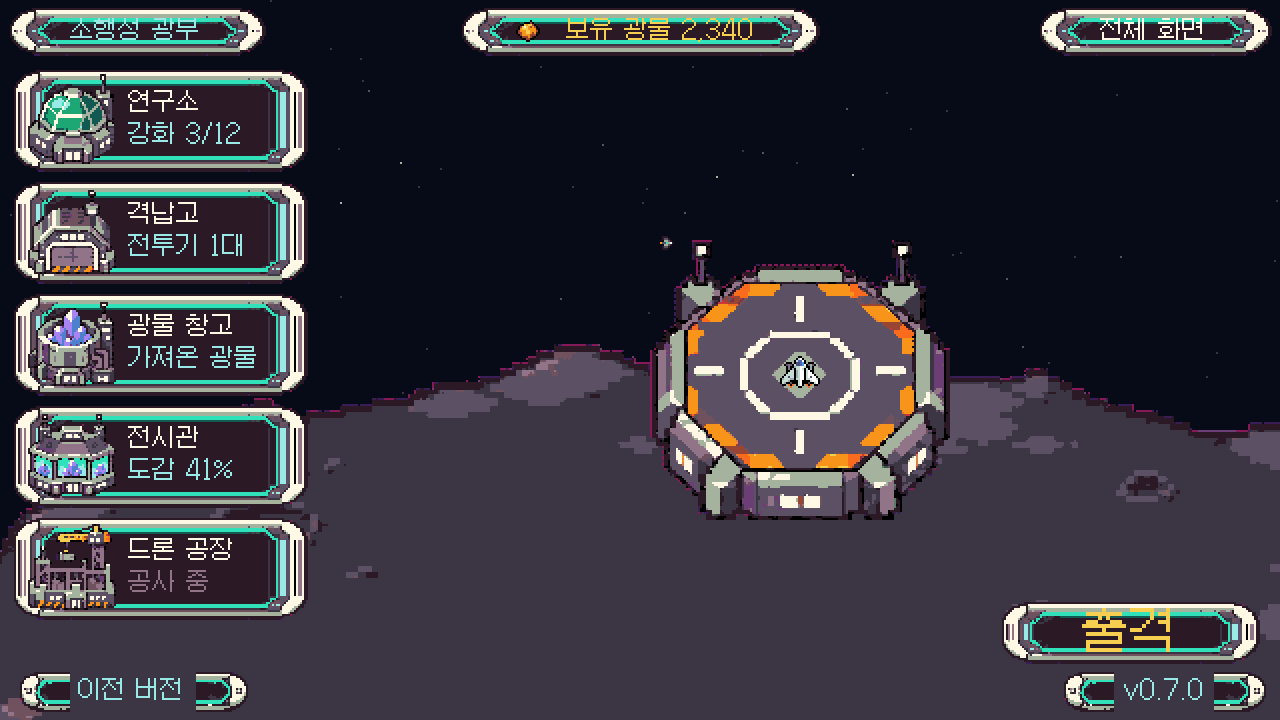
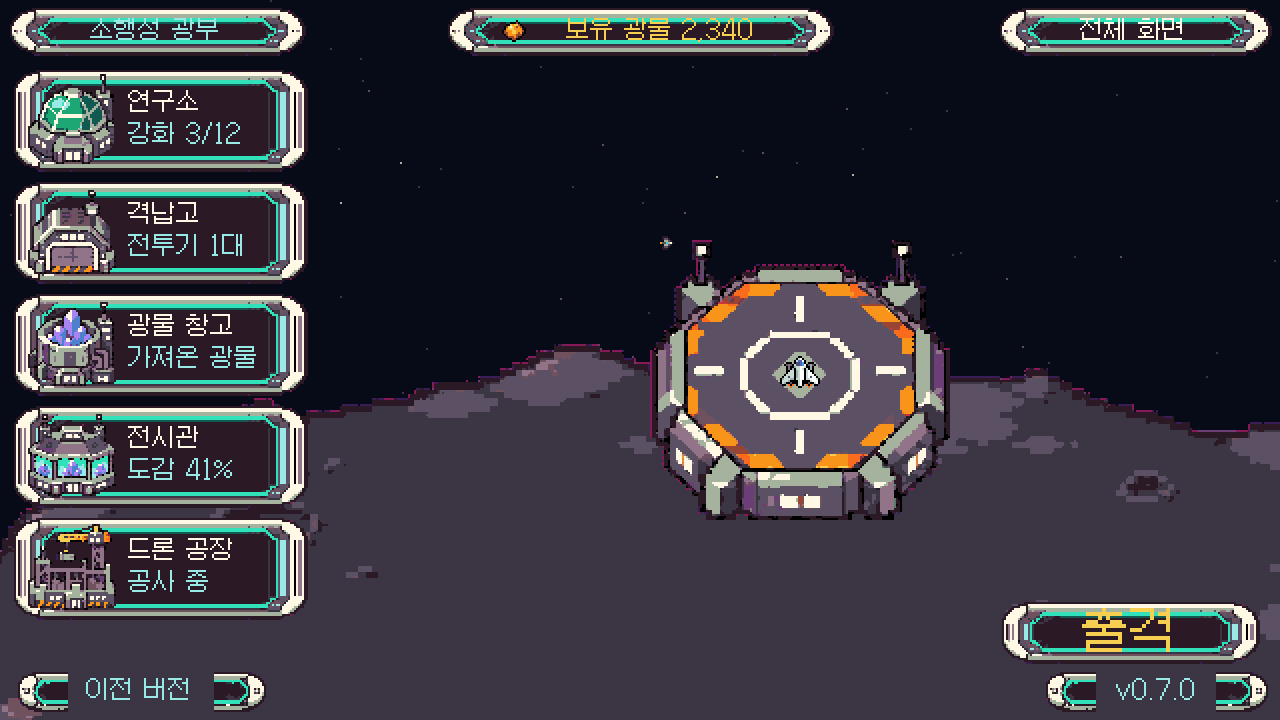
v0.7.0 기지 시안 검토 반영: 이름표 위치와 모듈 이름, 폰 글자, 글자 여백

diff --git a/review/v070_base/make_mockups.py b/review/v070_base/make_mockups.py
@@ -109,8 +109,12 @@ def plate(bg, x, y, w, h, s=None, size=12, fill=INK):
         text(bg, (x + w // 2, y + h // 2), s, size, fill, "mm")
 
 
+def tag_w(s, size=12):
+    return max(tw(s, size) + 72, 52)  # 양끝 장식이 글자를 가리지 않게
+
+
 def tag(bg, cx, y, s, size=12, fill=INK):
-    w = max(tw(s, size) + 62, 52)  # 양끝 장식이 글자를 가리지 않게
+    w = tag_w(s, size)
     h = 21 if size == 12 else 34
     paste(bg, nine("pill", w, h), (cx - w // 2, y))
     text(bg, (cx, y + h // 2), s, size, fill, "mm")
@@ -150,21 +154,21 @@ def top_bar(bg, w, big):
     """상단 바: 제목, 보유 광물, 전체 화면을 금속 판 위에"""
     size = 24 if big else 12
     h = 36 if big else 25
-    plate(bg, 4, 3, tw("소행성 광부", size) + 64, h, "소행성 광부", size, TEAL)
+    plate(bg, 4, 3, tw("소행성 광부", size) + 84, h, "소행성 광부", size, TEAL)
     label = "보유 광물 2,340"
-    bw = tw(label, size) + 86
+    bw = tw(label, size) + 100
     plate(bg, w // 2 - bw // 2, 3, bw, h, None)
     ore = Image.open(os.path.join(RUN, "mineral_3.png")).convert("RGBA")
     paste(bg, ore, (w // 2 - bw // 2 + 28, 3 + (h - ore.height) // 2))
     text(bg, (w // 2 + 10, 3 + h // 2), label, size, GOLD, "mm")
-    fw = tw("전체 화면", size) + 64
+    fw = tw("전체 화면", size) + 84
     plate(bg, w - fw - 4, 3, fw, h, "전체 화면", size)
 
 
 def bottom_bar(bg, w, h, big):
     size = 12
-    tag(bg, 66, h - 25, "이전 버전", size, TEAL)
-    tag(bg, w - 58, h - 25, "v0.7.0", size, TEAL)
+    tag(bg, 70, h - 25, "이전 버전", size, TEAL)
+    tag(bg, w - 62, h - 25, "v0.7.0", size, TEAL)
 
 
 NAMES = ["연구소", "격납고", "광물 창고", "전시관", "드론 공장"]
@@ -222,15 +226,15 @@ def mock_b(a, w, h, big, t=0, shift=0.0):
     gw = int(w * 1.3)
     ground = fit(a["ground_raw"], a["ground_box"], gw)
     paste(bg, ground, ((w - gw) // 2 + 40, h - ground.height // 2 + 10))
-    col_w = 148 if not big else 196
-    y = 34 if not big else 46
-    row = 56 if not big else 62
+    col_w = 148 if not big else 250
+    y = 34 if not big else 42
+    row = 56 if not big else 63
     for i, s in enumerate(NAMES):
         paste(bg, nine("button", col_w, row - 4), (6, y))
         icon = build(a, i, 44)
         paste(bg, icon, (14, y + (row - 4 - icon.height) // 2))
-        text(bg, (64, y + 10), s, 12 if not big else 24, INK)
-        text(bg, (64, y + (26 if not big else 34)), ["강화 3/12", "전투기 1대", "가져온 광물", "도감 41%", "공사 중"][i], 12, TEAL if i != 4 else DIM)
+        text(bg, (64, y + (10 if not big else 3)), s, 12 if not big else 24, INK)
+        text(bg, (64, y + (26 if not big else 29)), ["강화 3/12", "전투기 1대", "가져온 광물", "도감 41%", "공사 중"][i], 12 if not big else 24, TEAL if i != 4 else TEAL)
         y += row
     # 가운데 무대
     stage_x = col_w + 12 + (w - col_w - 12) // 2
@@ -261,13 +265,13 @@ def mock_c(a, w, h, big, t=0, shift=0.0):
     paste(bg, flame(t), (cx - 24, cy - 24))
     paste(bg, ship_sprite(), (cx - 24, cy - 24))
     r = st.width // 2 + 2
-    for i, s in enumerate(NAMES):
-        ang = -math.pi / 2 + i * math.tau / 5
-        tx = int(cx + math.cos(ang) * (r + (70 if abs(math.cos(ang)) > 0.3 else 0)))
-        ty = int(cy + math.sin(ang) * r * 0.86) - 10
-        if i == 0:
-            tx += 92  # 위쪽 건물과 겹치지 않게 옆으로
-        tag(bg, tx, max(min(ty, h - (70 if big else 50)), 42 if big else 30), s, 24 if big else 12)
+    size = 24 if big else 12
+    gap = r + 8
+    # 그림의 모듈 자리: 위 연구소, 오른쪽 광물 창고, 오른쪽 아래 격납고, 왼쪽 아래 전시관, 왼쪽 드론 공장
+    for s, side, ky in [("연구소", 0.55, -0.82), ("광물 창고", 1, -0.1), ("격납고", 1, 0.42 if big else 0.62), ("전시관", -1, 0.42 if big else 0.62), ("드론 공장", -1, -0.1)]:
+        half = tag_w(s, size) // 2
+        tx = cx + side * (gap + half) if side != 0.55 else cx + r // 2 + half + 8
+        tag(bg, int(tx), int(cy + ky * r), s, size)
     k = t / 40.0 * math.tau
     paste(bg, drone(t // 2), (int(cx + math.cos(k) * r * 0.55) - 8, int(cy + math.sin(k) * r * 0.55) - 8))
     fw, fh = (170, 40) if big else (110, 28)

diff --git a/review/v070_base/design.md b/review/v070_base/design.md
@@ -28,16 +28,18 @@
 
 **추천: A.** 격자·색·UI를 맞추는 것만으로 차이가 가장 많이 줄어요. 지금 v0.7.0의 목표가 품질 맞추기이고 다음 무기 업데이트가 격납고 화면을 건드리니, 구성 개편은 그때 B를 다시 봐도 돼요. 눈으로 고르면 C가 더 멋있을 수 있어요.
 
+C의 모듈 그림은 한 장으로 나온 것이라 모양이 게임 건물과 똑같지는 않아요: 광물 창고는 보라 결정이 든 오른쪽 캡슐, 격납고는 큰 문이 있는 오른쪽 아래 모듈이에요.
+
 ## 3. 대기 중 움직임 (`idle_motion_A.gif`)
 
-GIF에 넣은 것: 건물 불빛 깜빡임, 우주선 대기 엔진 불꽃, 별 시차, 작은 운반 드론 왕복. 어느 시안에든 넣을 수 있어요. 시안 합성이라 실제 게임 속도와는 달라요.
+GIF(640x360, 40프레임)에 넣은 것: 건물 불빛 깜빡임, 우주선 대기 엔진 불꽃, 별 시차, 작은 운반 드론 왕복. 어느 시안에든 넣을 수 있어요. 시안 합성이라 실제 게임 속도와는 달라요.
 
 ## 4. 시안에서 벗어난 점과 구현 때 할 일
 
 - 폰은 기지도 출격처럼 정수 배율로 바꿔야 해요 (`App.fit_screen`의 기지 모드). 시안의 폰 그림은 그 상태를 가정했어요. **바로 고쳐도 되는 부분이지만 시안 범위라 건드리지 않았어요.**
 - 시안의 바닥은 어둡게 눌렀고 길이 없어요. 구현 때 길은 Codex 그림으로 넣어요.
-- 폰 이름표는 24px, 위쪽 바 글자 24px예요. 실제 크기는 PNG를 폰 가로 화면에 꽉 채우면 비슷해요.
-- 금속 알약 양끝 장식이 넓어서 글자 양옆에 약 31px씩 들어가요. 짧은 이름표용으로 작은 판 그림을 새로 만들면 더 깔끔해요.
+- 폰 이름표·부제·위쪽 바 글자는 24px예요. 실제 크기는 PNG를 폰 가로 화면에 꽉 채우면 비슷해요.
+- 금속 알약 양끝 장식이 넓어서 글자 양옆에 약 36px씩 비워 뒀어요. 짧은 이름표용으로 작은 판 그림을 새로 만들면 더 깔끔해요.
 - 팩 색 검사는 정리 도구가 void32로 바꿔서 보장되지만, 팩 그림 옆에 놓은 비교는 착륙장 위 우주선 정도예요.
 
 ## 다시 만들기

diff --git a/PROGRESS.md b/PROGRESS.md
@@ -637,3 +637,4 @@
 - 판단: 소수 DPR 흐림의 원인은 Godot 웹 캔버스 크기 차이로 인한 브라우저 재표본(전체 픽셀). `image-rendering:pixelated` 한 줄이 임시 복사본에서 효과 있었지만 요청이 원인 확인이라 넣지 않음. 지금 게임은 30초 안에 게이트가 안 열림(첫 게이트 40초)을 함께 적음
 - D 기지 화면 시안 (게임에 적용 안 함): 원인 분석과 시안 A 배치 유지, B 구성 새로, C 궤도 정거장, 대기 움직임 GIF. Codex 3장. 정리 `review/v070_base/design.md`
 - 판단: 계획서 27번의 "픽셀 크기가 다름"은 측정과 달랐음(PC는 같은 2화면 픽셀). 원인은 색 수, 코드 UI, 폰 소수 배율. 추천은 A. 카드 종류 표 글자가 알약 끝 장식에 겹쳐 여백을 넓힘(게임 수정 1줄)
+- D 1차 검토 불통과(C 이름표가 건물 위·모듈과 이름 불일치, B 폰 부제 작음, 상단 글자와 장식 겹침) → 4건 수용, 고침
